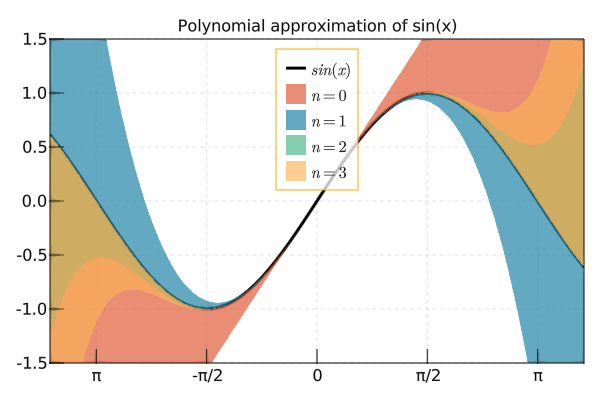
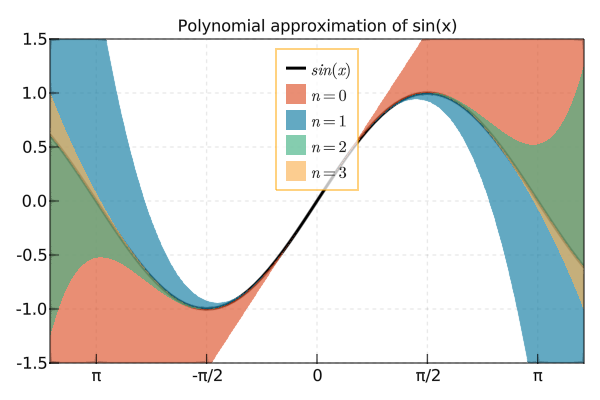
fix exponent, plus added bibtex file.

diff --git a/README.md b/README.md
@@ -39,6 +39,8 @@ BibTeX entry:
 }
 ```
 
+or [Download the BibTeX file](./assets/DanischKrumbiegel2021.bibtex).
+
 # Installation
 
 Please consider using the backends directly. As explained in the documentation, they re-export all of Makie's functionality.
@@ -64,7 +66,7 @@ using GLMakie
 
 # Quick start
 
-The following examples are supposed to be self-explanatory. For further information [check out the documentation here!](http://makie.juliaplots.org/stable/).
+The following examples are supposed to be self-explanatory. For further information [check out the documentation here!](http://makie.juliaplots.org/stable/)
 
 ### A simple parabola
 
@@ -88,15 +90,15 @@ set_theme!(palette = (; patchcolor = tuple.(to_colormap(:Egypt, 4), 0.65)))
 fig = lines(x, sin.(x); label = L"sin(x)", linewidth = 3, color = :black,
     axis = (; title = "Polynomial approximation of sin(x)",
         xgridstyle = :dash, ygridstyle = :dash,
-        xticksize = 15, yticksize = 15, xtickalign = 1, ytickalign = 1,
+        xticksize = 10, yticksize = 10, xtickalign = 1, ytickalign = 1,
         xticks = (-π:π/2:π, ["π", "-π/2", "0", "π/2", "π"])
     ))
 band!(x, sin.(x), approx .+= x; label = L"n = 0")
 band!(x, sin.(x), approx .+= -x .^ 3 / 6; label = L"n = 1")
 band!(x, sin.(x), approx .+= x .^ 5 / 120; label = L"n = 2")
-band!(x, sin.(x), approx .+= x .^ 7 / 5040; label = L"n = 3")
+band!(x, sin.(x), approx .+= -x .^ 7 / 5040; label = L"n = 3")
 limits!(-3.8, 3.8, -1.5, 1.5)
-axislegend(; position = :ct, bgcolor = (:white,0.75), framecolor = :orange)
+axislegend(; position = :ct, bgcolor = (:white, 0.75), framecolor = :orange)
 save("approxsin.png", fig, resolution = (600, 400))
 fig
 ```
@@ -128,7 +130,7 @@ fig
 
 <img src="./assets/simpleLayout.png">
 
-Warning: When using `set_theme!(...)` don't forget to reset to the default settings by doing `set_theme!()`.
+⚠WARNING⚠ When using `set_theme!(...)` don't forget to reset to the default settings by doing `set_theme!()`.
 
 Interactive example by [AlexisRenchon](https://github.com/AlexisRenchon):
 
